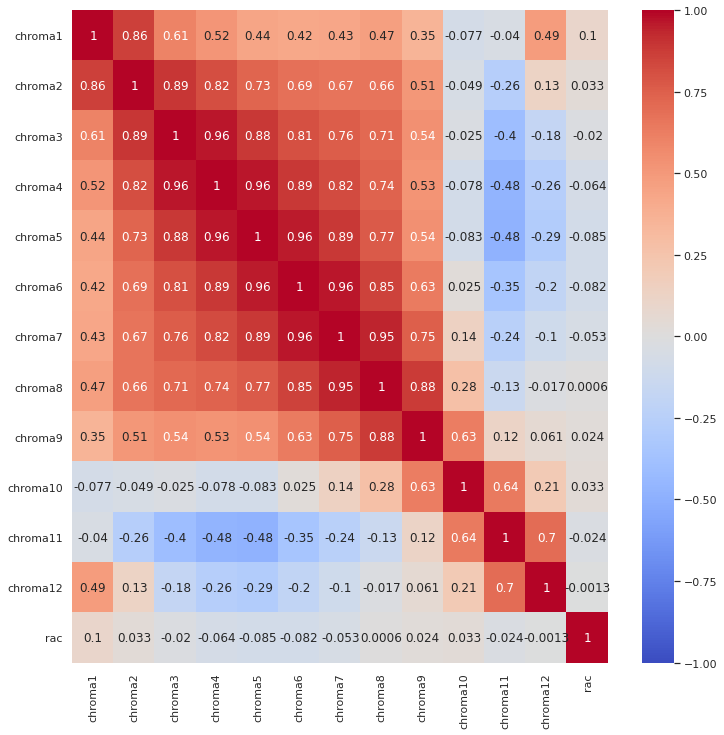
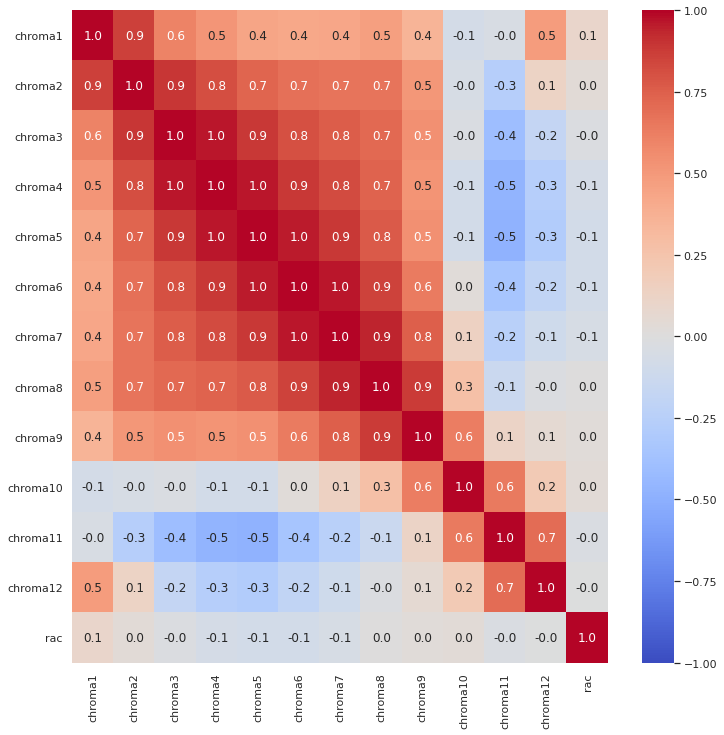
Update correlation matrices annotation format

diff --git a/audio_kdd.py b/audio_kdd.py
@@ -529,7 +529,8 @@ sns.heatmap(df.loc[:, chroma_cols + ['rac']].corr(),
             cmap="coolwarm",
             center=0.0,
             robust=True,
-            annot=True)
+            annot=True,
+            fmt='.1f')
 plt.draw()
 plt.savefig(f'./output_{FILE_PREFIX}/{FILE_PREFIX}_chroma_features_corr.png',
             bbox_inches='tight',
@@ -756,7 +757,8 @@ sns.heatmap(df.loc[:, [
             cmap="coolwarm",
             center=0.0,
             robust=True,
-            annot=True)
+            annot=True,
+            fmt='.1f')
 plt.draw()
 plt.savefig(f'./output_{FILE_PREFIX}/{FILE_PREFIX}_corr.png',
             bbox_inches='tight',
@@ -845,7 +847,8 @@ sns.heatmap(df.loc[:, mfcc_cols + ['rac']].corr(),
             cmap="coolwarm",
             center=0.0,
             robust=True,
-            annot=True)
+            annot=True,
+            fmt='.1f')
 plt.draw()
 plt.savefig(f'./output_{FILE_PREFIX}/{FILE_PREFIX}_mfccs_corr.png',
             bbox_inches='tight',
